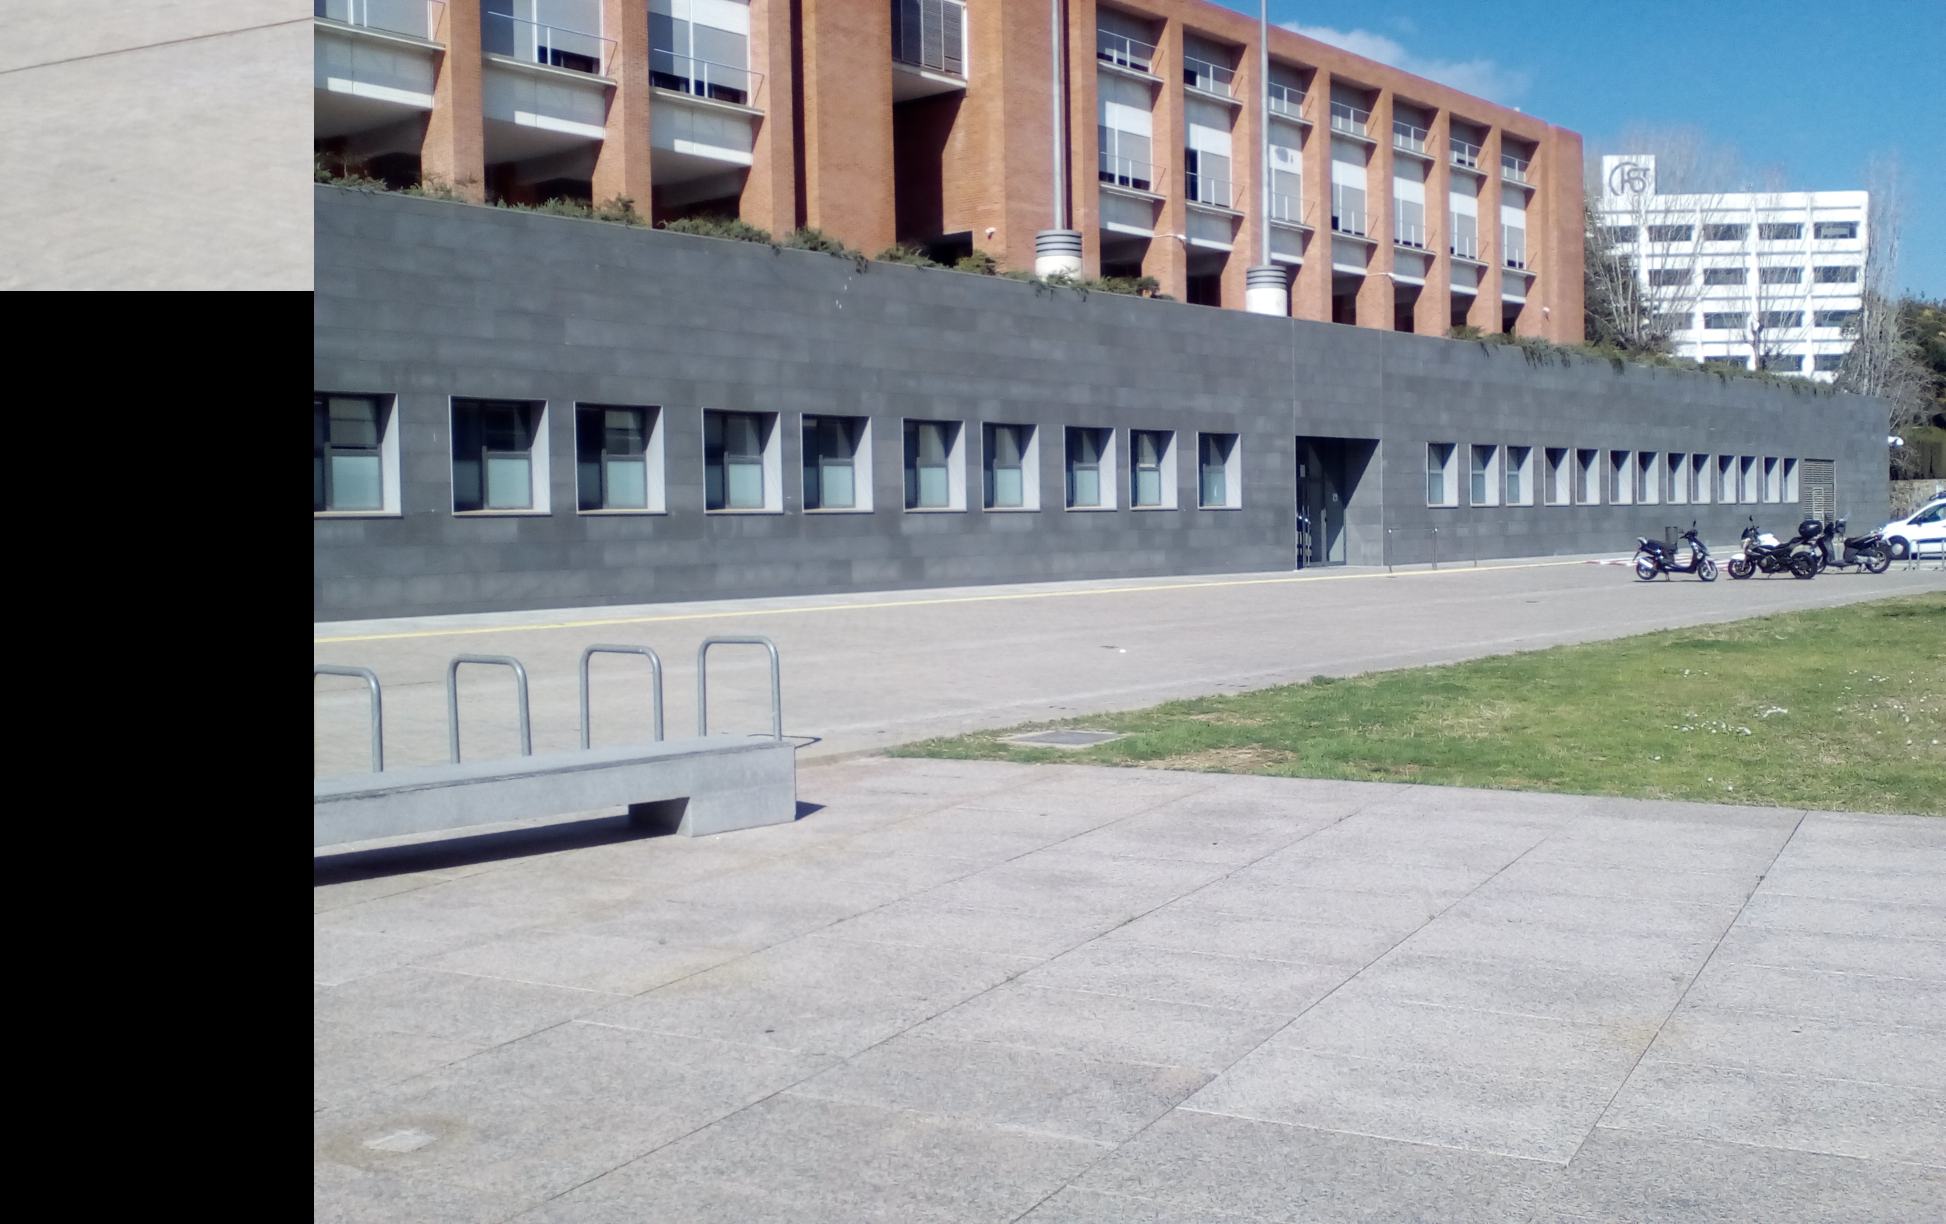
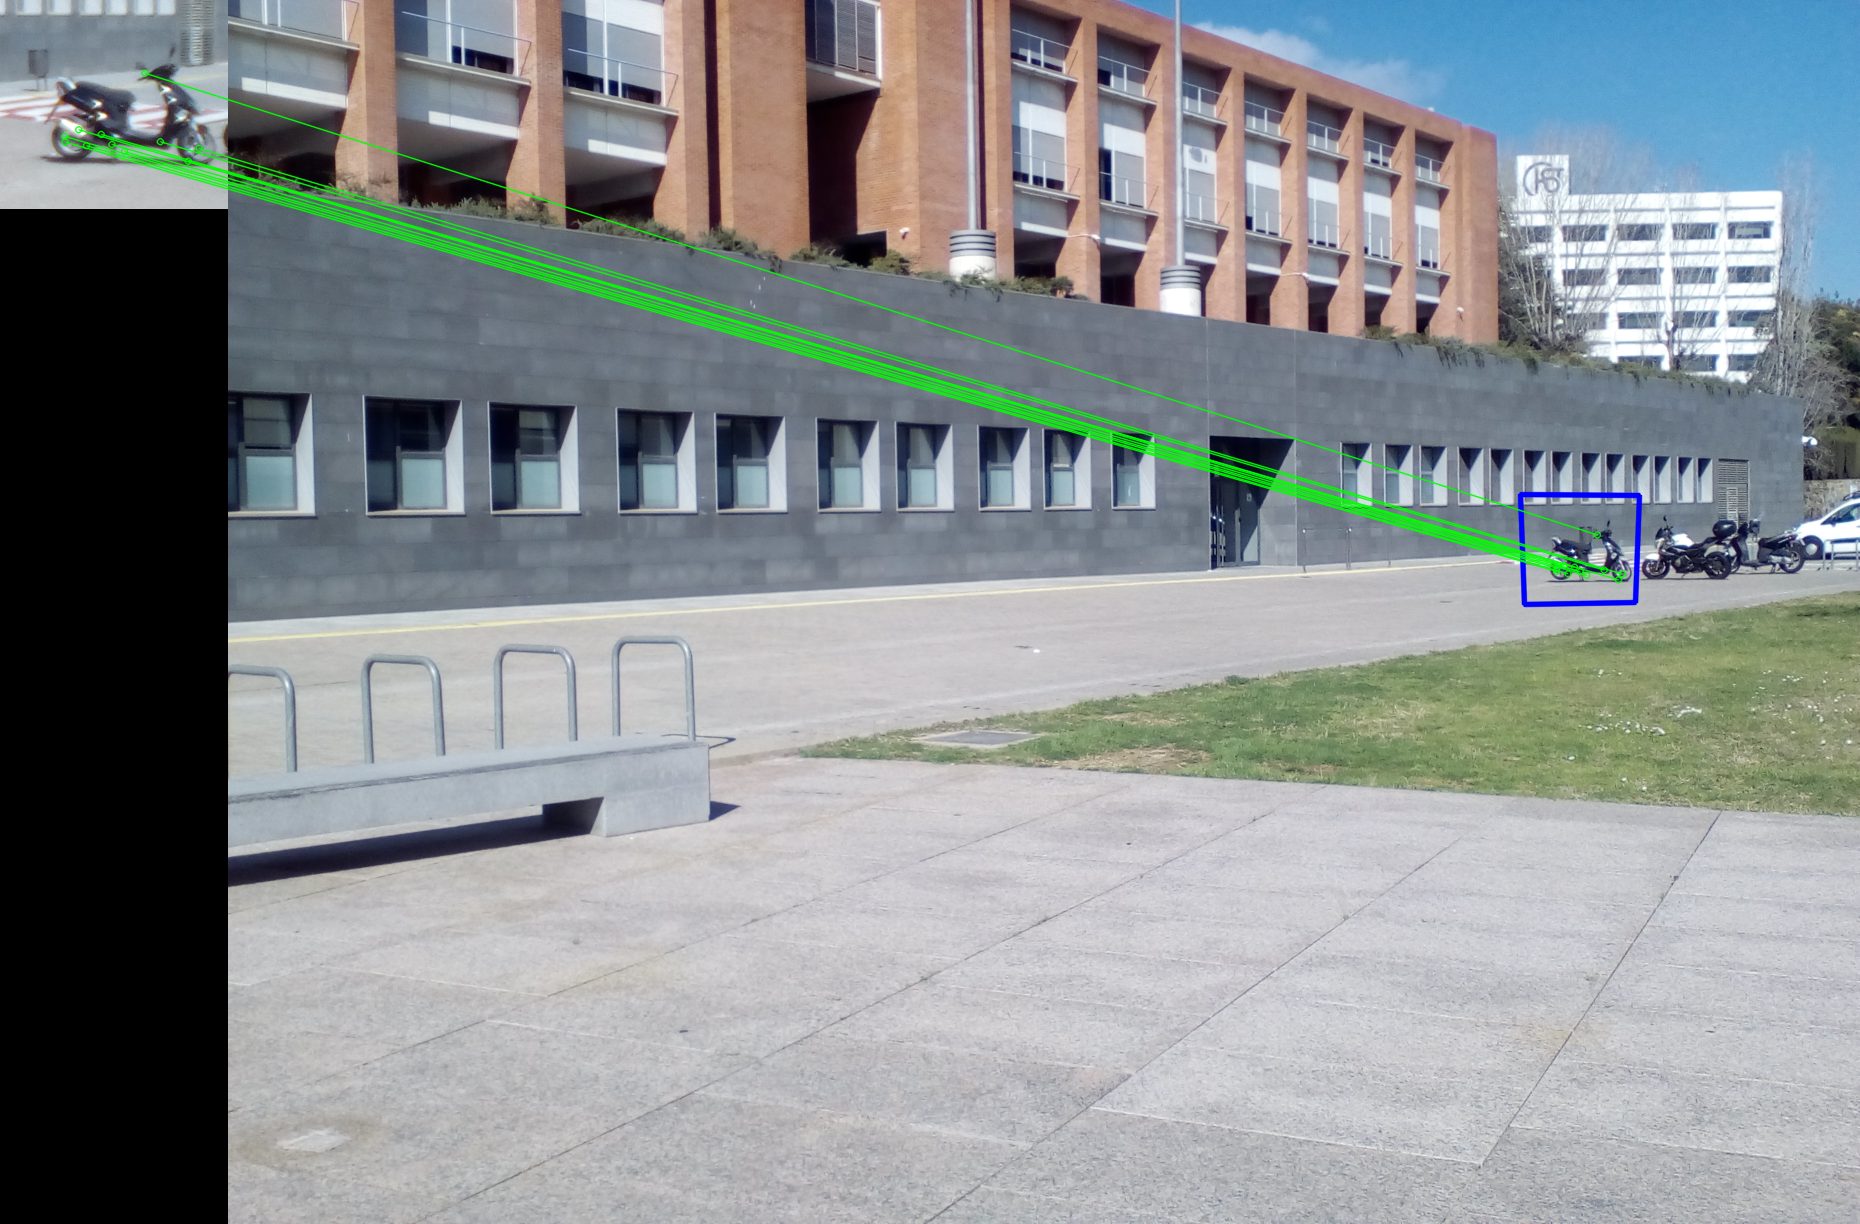
Fix img size

diff --git a/templates/index.html b/templates/index.html
@@ -39,27 +39,24 @@
 
     <script type="text/javascript">
       jQuery(document).ready(function () {
+        var img = document.getElementById('scene');
+        jQuery('input[name=width]').val(img.clientWidth);
+        jQuery('input[name=height]').val(img.clientHeight);
         jQuery('img#scene').imgAreaSelect({
             handles: true,
             persistent: true,
-            imageHeight: 2448,
-            imageWidth: 3264,
-            x1: 100, y1: 100, x2: 300, y2: 300,
+            x1: 50, y1: 50, x2: 200, y2: 200,
             onInit: function ( image, selected) {
               jQuery('input[name=x1]').val(selected.x1);
               jQuery('input[name=y1]').val(selected.y1);
               jQuery('input[name=x2]').val(selected.x2);
               jQuery('input[name=y2]').val(selected.y2);
-              jQuery('input[name=width]').val(selected.width);
-              jQuery('input[name=height]').val(selected.height);
             },
             onSelectEnd: function ( image, selected) {
               jQuery('input[name=x1]').val(selected.x1);
               jQuery('input[name=y1]').val(selected.y1);
               jQuery('input[name=x2]').val(selected.x2);
               jQuery('input[name=y2]').val(selected.y2);
-              jQuery('input[name=width]').val(selected.width);
-              jQuery('input[name=height]').val(selected.height);
             }
         });
     });

diff --git a/project.py b/project.py
@@ -31,9 +31,22 @@ def send():
     x2 = int(request.form['x2'])
     y1 = int(request.form['y1'])
     y2 = int(request.form['y2'])
+    
+    height = int(request.form['height'])
+    width = int(request.form['width'])
 
     img = cv2.imread(imgPath)
-    img = img[x1:x2, y1:y2]
+    h,w,_ = img.shape
+    
+    scale_h = h/height
+    scale_w = w/width
+
+    x1 = int(x1*scale_w)
+    x2 = int(x2*scale_w)
+    y1 = int(y1*scale_h)
+    y2 = int(y2*scale_h)
+
+    img = img[y1:y2, x1:x2]
     imgRobot = cv2.imread(imgRobotPath)
 
     imgRes, x, y = vc.getResult(img, imgRobot, vc._SIFT)
